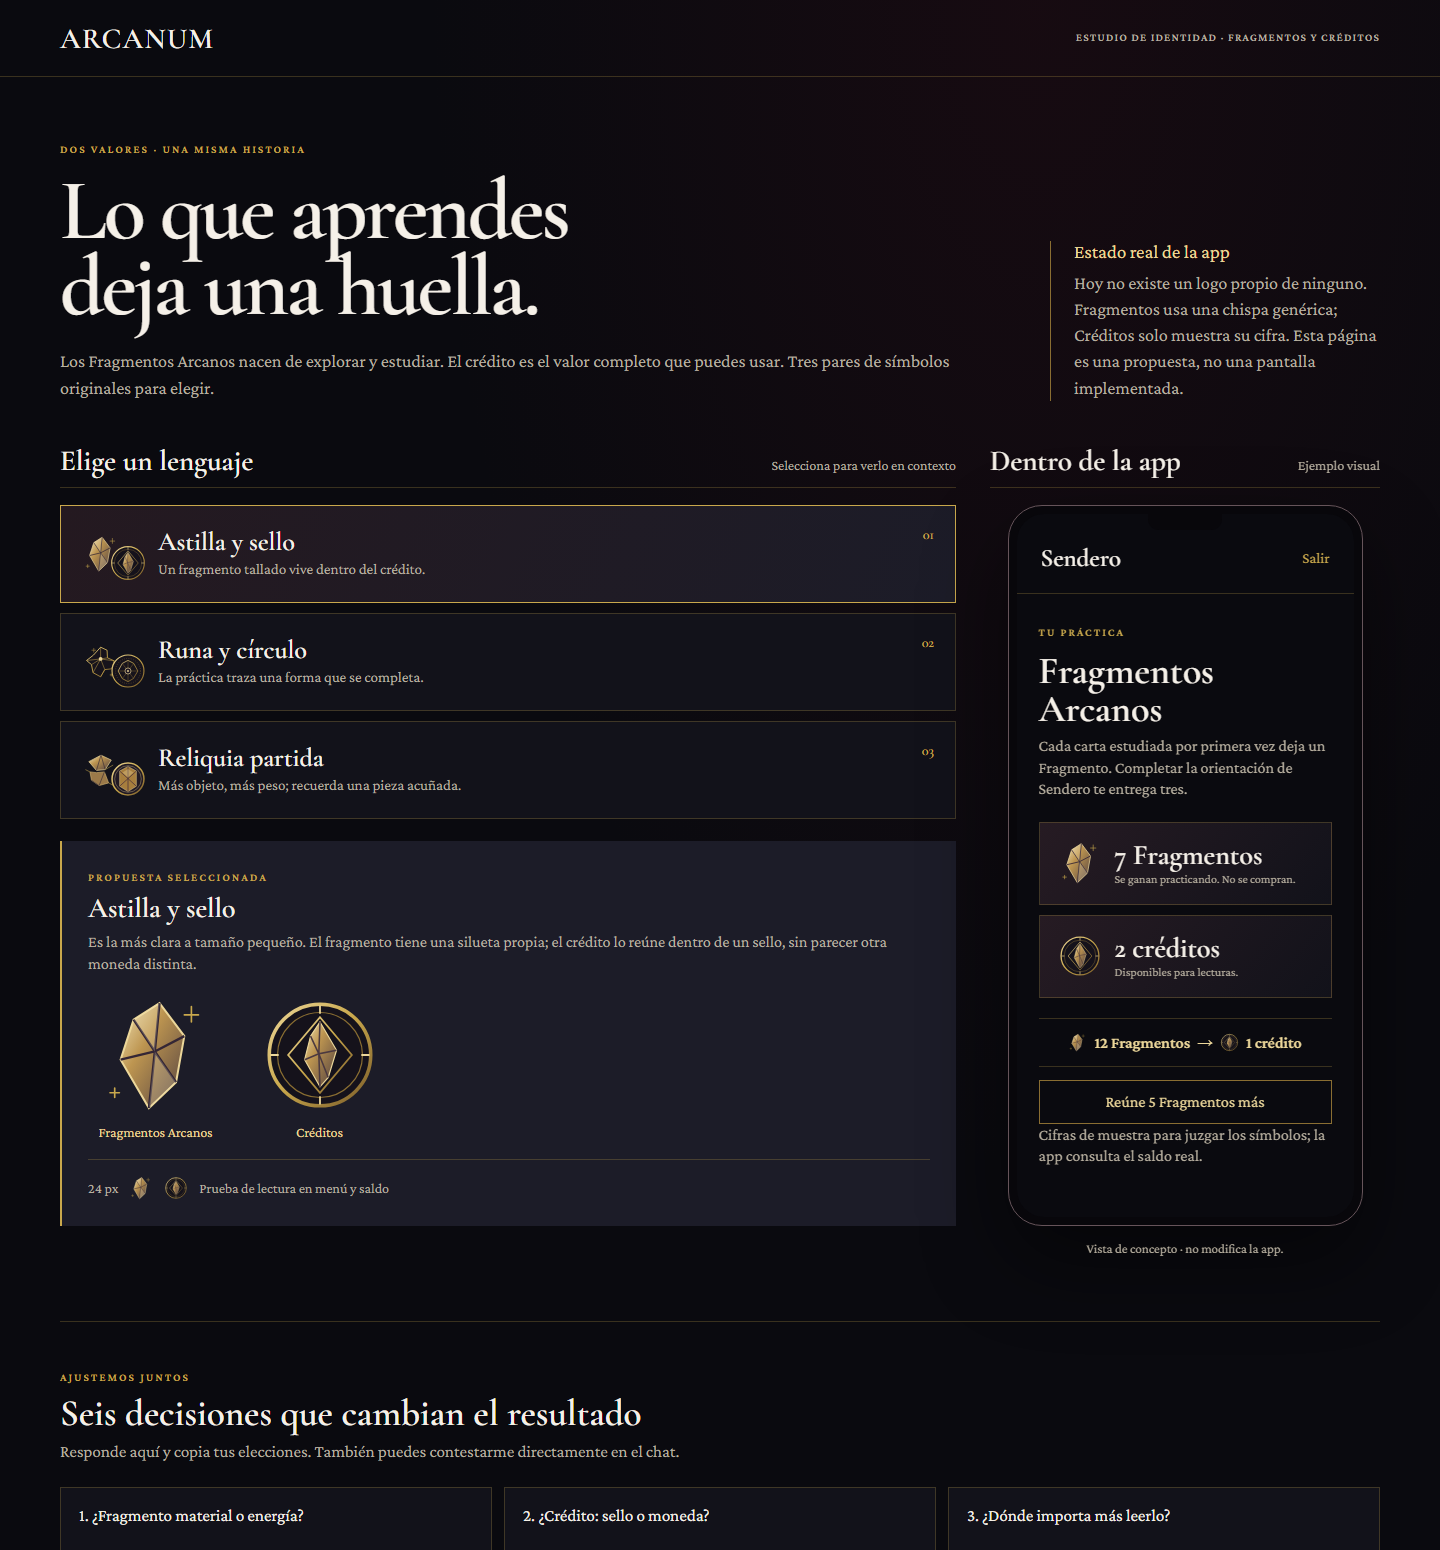
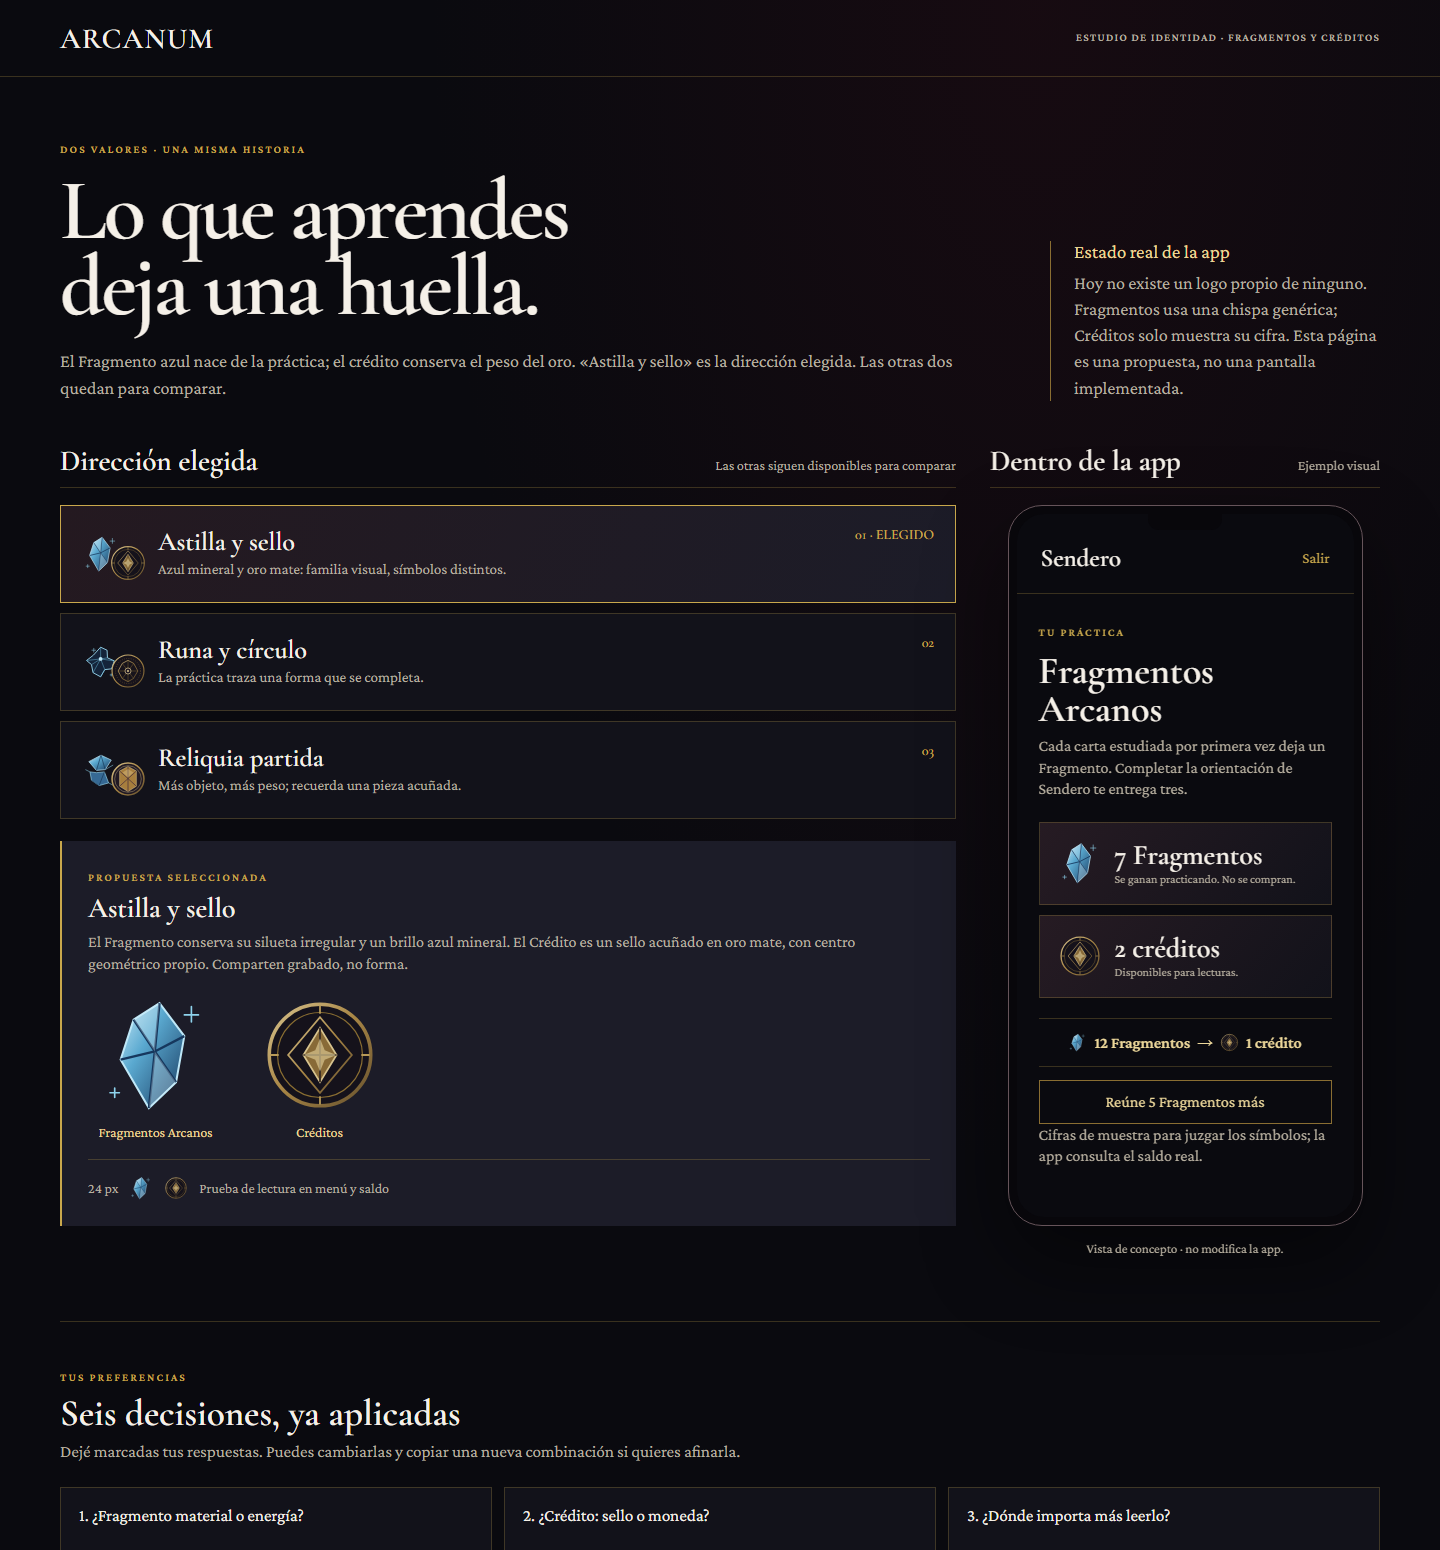
feat(diseno): distinguir fragmentos azules y creditos dorados

diff --git a/prototipos/fragmentos-creditos-identidad.html b/prototipos/fragmentos-creditos-identidad.html
@@ -15,6 +15,8 @@
       --gold: #c9a84c;
       --gold-light: #ecd79a;
       --gold-muted: #8a6e32;
+      --blue: #70b9dc;
+      --blue-light: #bfe8f8;
       --ivory: #f5f0e8;
       --muted: #b8b0a0;
       --line: rgba(201,168,76,.25);
@@ -116,27 +118,28 @@
 <body>
   <svg aria-hidden="true" width="0" height="0" style="position:absolute;overflow:hidden">
     <defs>
-      <linearGradient id="metal" x1="0" y1="0" x2="1" y2="1"><stop stop-color="#ecd79a"/><stop offset=".47" stop-color="#c9a84c"/><stop offset="1" stop-color="#795b29"/></linearGradient>
-      <linearGradient id="shard" x1="0" y1="0" x2="1" y2="1"><stop stop-color="#f1e3b7"/><stop offset=".38" stop-color="#bd9550"/><stop offset="1" stop-color="#503f40"/></linearGradient>
+      <linearGradient id="metal" x1="0" y1="0" x2="1" y2="1"><stop stop-color="#d7c38e"/><stop offset=".47" stop-color="#a98746"/><stop offset="1" stop-color="#65502d"/></linearGradient>
+      <linearGradient id="shard" x1="0" y1="0" x2="1" y2="1"><stop stop-color="#c7e9f7"/><stop offset=".38" stop-color="#5aa9d0"/><stop offset="1" stop-color="#16375d"/></linearGradient>
       <symbol id="fragment-a" viewBox="0 0 100 100">
-        <path d="M53 6 74 34 67 73 44 95 20 54 31 20Z" fill="url(#shard)" stroke="#ecd79a" stroke-width="1.7"/>
-        <path d="M53 6 49 47 44 95M31 20 49 47 74 34M49 47 67 73M20 54 49 47" fill="none" stroke="#342635" stroke-width="2"/>
-        <path d="M53 6 49 47 31 20M49 47 67 73 44 95" fill="#fff4d2" opacity=".22"/>
-        <path d="M80 9v13m-6-6h12M15 78v8m-4-4h8" stroke="#c9a84c" stroke-width="1.4" stroke-linecap="round"/>
+        <path d="M53 6 74 34 67 73 44 95 20 54 31 20Z" fill="url(#shard)" stroke="#bfe8f8" stroke-width="1.7"/>
+        <path d="M53 6 49 47 44 95M31 20 49 47 74 34M49 47 67 73M20 54 49 47" fill="none" stroke="#16375d" stroke-width="2"/>
+        <path d="M53 6 49 47 31 20M49 47 67 73 44 95" fill="#e2f6fd" opacity=".3"/>
+        <path d="M80 9v13m-6-6h12M15 78v8m-4-4h8" stroke="#8ed3ed" stroke-width="1.4" stroke-linecap="round"/>
       </symbol>
       <symbol id="credit-a" viewBox="0 0 100 100">
         <circle cx="50" cy="50" r="43" fill="#15121b" stroke="url(#metal)" stroke-width="3"/>
         <circle cx="50" cy="50" r="36" fill="none" stroke="#8a6e32" stroke-width="1"/>
         <path d="M50 18 77 50 50 82 23 50Z" fill="none" stroke="url(#metal)" stroke-width="1.5"/>
-        <path d="M50 22 64 46 57 69 50 77 37 54 42 34Z" fill="url(#shard)" stroke="#ecd79a" stroke-width="1"/>
-        <path d="M50 22 49 49 50 77M42 34 49 49 64 46M49 49 57 69M37 54 49 49" fill="none" stroke="#4b3940" stroke-width="1.3"/>
-        <path d="M50 8v7m0 70v7M8 50h7m70 0h7" stroke="#ecd79a" stroke-width="1.5"/>
+        <path d="M50 27 64 50 50 73 36 50Z" fill="#886a37" stroke="#d7c38e" stroke-width="1.5"/>
+        <path d="M50 27v46M36 50h28" fill="none" stroke="#352922" stroke-width="1.5"/>
+        <path d="M50 36 54 46 64 50 54 54 50 64 46 54 36 50 46 46Z" fill="#d7c38e" opacity=".72"/>
+        <path d="M50 8v7m0 70v7M8 50h7m70 0h7" stroke="#b89a58" stroke-width="1.5"/>
       </symbol>
       <symbol id="fragment-b" viewBox="0 0 100 100">
-        <path d="M49 11 66 19 67 39 85 47 78 68 60 70 49 89 29 78 25 57 12 46 30 32Z" fill="#17131b" stroke="url(#metal)" stroke-width="2.4"/>
-        <path d="M49 11 49 42 67 39M12 46 49 42 25 57M49 42 60 70 49 89M49 42 85 47M49 42 29 78" fill="none" stroke="#c9a84c" stroke-width="1.3"/>
-        <circle cx="49" cy="42" r="5" fill="#ecd79a"/>
-        <path d="M31 13v12m-6-6h12M77 80v8m-4-4h8" stroke="#b79845" stroke-width="1.4"/>
+        <path d="M49 11 66 19 67 39 85 47 78 68 60 70 49 89 29 78 25 57 12 46 30 32Z" fill="#14243a" stroke="#9bd9f0" stroke-width="2.4"/>
+        <path d="M49 11 49 42 67 39M12 46 49 42 25 57M49 42 60 70 49 89M49 42 85 47M49 42 29 78" fill="none" stroke="#67b5d7" stroke-width="1.3"/>
+        <circle cx="49" cy="42" r="5" fill="#bfe8f8"/>
+        <path d="M31 13v12m-6-6h12M77 80v8m-4-4h8" stroke="#8ed3ed" stroke-width="1.4"/>
       </symbol>
       <symbol id="credit-b" viewBox="0 0 100 100">
         <circle cx="50" cy="50" r="42" fill="#17131b" stroke="url(#metal)" stroke-width="3"/>
@@ -147,10 +150,10 @@
         <circle cx="50" cy="50" r="2.4" fill="#ecd79a"/>
       </symbol>
       <symbol id="fragment-c" viewBox="0 0 100 100">
-        <path d="M18 28 50 11 77 24 61 49 38 51Z" fill="url(#shard)" stroke="#ecd79a" stroke-width="1.8"/>
-        <path d="M21 55 38 57 59 55 70 84 45 91 25 77Z" fill="#9a7949" stroke="#d1b16e" stroke-width="1.7"/>
-        <path d="M38 51 50 11 61 49M25 77l20 14 14-36" fill="none" stroke="#3b2e36" stroke-width="1.8"/>
-        <path d="M61 49 82 37M21 55 9 49M70 84l14 7" fill="none" stroke="#c9a84c" stroke-width="1.4"/>
+        <path d="M18 28 50 11 77 24 61 49 38 51Z" fill="url(#shard)" stroke="#bfe8f8" stroke-width="1.8"/>
+        <path d="M21 55 38 57 59 55 70 84 45 91 25 77Z" fill="#366994" stroke="#9bd9f0" stroke-width="1.7"/>
+        <path d="M38 51 50 11 61 49M25 77l20 14 14-36" fill="none" stroke="#153657" stroke-width="1.8"/>
+        <path d="M61 49 82 37M21 55 9 49M70 84l14 7" fill="none" stroke="#8ed3ed" stroke-width="1.4"/>
       </symbol>
       <symbol id="credit-c" viewBox="0 0 100 100">
         <circle cx="50" cy="50" r="42" fill="#211923" stroke="url(#metal)" stroke-width="4"/>
@@ -164,17 +167,17 @@
   <header><div class="wrap topline"><span class="brand">ARCANUM</span><span class="topnote">Estudio de identidad · Fragmentos y créditos</span></div></header>
   <main class="wrap">
     <section class="intro">
-      <div><span class="eyebrow">Dos valores · una misma historia</span><h1>Lo que aprendes<br>deja una huella.</h1><p>Los Fragmentos Arcanos nacen de explorar y estudiar. El crédito es el valor completo que puedes usar. Tres pares de símbolos originales para elegir.</p></div>
+      <div><span class="eyebrow">Dos valores · una misma historia</span><h1>Lo que aprendes<br>deja una huella.</h1><p>El Fragmento azul nace de la práctica; el crédito conserva el peso del oro. «Astilla y sello» es la dirección elegida. Las otras dos quedan para comparar.</p></div>
       <aside><strong>Estado real de la app</strong><p>Hoy no existe un logo propio de ninguno. Fragmentos usa una chispa genérica; Créditos solo muestra su cifra. Esta página es una propuesta, no una pantalla implementada.</p></aside>
     </section>
     <section class="workspace" aria-label="Comparador de símbolos">
       <div>
-        <div class="section-head"><h2>Elige un lenguaje</h2><span>Selecciona para verlo en contexto</span></div>
-        <button type="button" class="concept" data-variant="a" aria-pressed="true"><span class="pair"><svg aria-hidden="true"><use href="#fragment-a"/></svg><svg aria-hidden="true"><use href="#credit-a"/></svg></span><span><h3>Astilla y sello</h3><p>Un fragmento tallado vive dentro del crédito.</p></span><span class="index">01</span></button>
+        <div class="section-head"><h2>Dirección elegida</h2><span>Las otras siguen disponibles para comparar</span></div>
+        <button type="button" class="concept" data-variant="a" aria-pressed="true"><span class="pair"><svg aria-hidden="true"><use href="#fragment-a"/></svg><svg aria-hidden="true"><use href="#credit-a"/></svg></span><span><h3>Astilla y sello</h3><p>Azul mineral y oro mate: familia visual, símbolos distintos.</p></span><span class="index">01 · ELEGIDO</span></button>
         <button type="button" class="concept" data-variant="b" aria-pressed="false"><span class="pair"><svg aria-hidden="true"><use href="#fragment-b"/></svg><svg aria-hidden="true"><use href="#credit-b"/></svg></span><span><h3>Runa y círculo</h3><p>La práctica traza una forma que se completa.</p></span><span class="index">02</span></button>
         <button type="button" class="concept" data-variant="c" aria-pressed="false"><span class="pair"><svg aria-hidden="true"><use href="#fragment-c"/></svg><svg aria-hidden="true"><use href="#credit-c"/></svg></span><span><h3>Reliquia partida</h3><p>Más objeto, más peso; recuerda una pieza acuñada.</p></span><span class="index">03</span></button>
         <article class="detail" aria-live="polite">
-          <span class="eyebrow">Propuesta seleccionada</span><h3 id="detail-title">Astilla y sello</h3><p id="detail-description">Es la más clara a tamaño pequeño. El fragmento tiene una silueta propia; el crédito lo reúne dentro de un sello, sin parecer otra moneda distinta.</p>
+          <span class="eyebrow">Propuesta seleccionada</span><h3 id="detail-title">Astilla y sello</h3><p id="detail-description">El Fragmento conserva su silueta irregular y un brillo azul mineral. El Crédito es un sello acuñado en oro mate, con centro geométrico propio. Comparten grabado, no forma.</p>
           <div class="duo"><div class="emblem"><svg role="img" aria-label="Símbolo de Fragmentos Arcanos" id="large-fragment"><use href="#fragment-a"/></svg><span>Fragmentos Arcanos</span></div><div class="emblem"><svg role="img" aria-label="Símbolo de Créditos" id="large-credit"><use href="#credit-a"/></svg><span>Créditos</span></div></div>
           <div class="tiny"><span>24 px</span><svg aria-hidden="true" id="tiny-fragment"><use href="#fragment-a"/></svg><svg aria-hidden="true" id="tiny-credit"><use href="#credit-a"/></svg><span>Prueba de lectura en menú y saldo</span></div>
         </article>
@@ -182,22 +185,22 @@
       <aside class="preview-wrap" aria-label="Vista previa en la app"><div class="section-head"><h2>Dentro de la app</h2><span>Ejemplo visual</span></div><div class="phone"><div class="screen"><div class="mobile-top"><span>Sendero</span><span>Salir</span></div><div class="mobile-content"><span class="eyebrow">Tu práctica</span><h2>Fragmentos Arcanos</h2><p>Cada carta estudiada por primera vez deja un Fragmento. Completar la orientación de Sendero te entrega tres.</p><div class="balance"><div class="balance-head"><svg aria-hidden="true" id="phone-fragment"><use href="#fragment-a"/></svg><div><strong>7 Fragmentos</strong><small>Se ganan practicando. No se compran.</small></div></div></div><div class="balance"><div class="balance-head"><svg aria-hidden="true" id="phone-credit"><use href="#credit-a"/></svg><div><strong>2 créditos</strong><small>Disponibles para lecturas.</small></div></div></div><div class="exchange"><svg aria-hidden="true" id="exchange-fragment"><use href="#fragment-a"/></svg><span>12 Fragmentos</span><span aria-hidden="true">→</span><svg aria-hidden="true" id="exchange-credit"><use href="#credit-a"/></svg><span>1 crédito</span></div><button type="button" class="mobile-button" disabled>Reúne 5 Fragmentos más</button><p class="balance-caption">Cifras de muestra para juzgar los símbolos; la app consulta el saldo real.</p></div></div></div><p class="preview-note">Vista de concepto · no modifica la app.</p></aside>
     </section>
     <section class="questions" aria-label="Preguntas de diseño">
-      <span class="eyebrow">Ajustemos juntos</span><h2>Seis decisiones que cambian el resultado</h2><p>Responde aquí y copia tus elecciones. También puedes contestarme directamente en el chat.</p>
+      <span class="eyebrow">Tus preferencias</span><h2>Seis decisiones, ya aplicadas</h2><p>Dejé marcadas tus respuestas. Puedes cambiarlas y copiar una nueva combinación si quieres afinarla.</p>
       <div class="question-grid">
-        <div class="question"><label for="q1">1. ¿Fragmento material o energía?</label><select id="q1"><option>Pieza material</option><option>Luz / energía</option><option>Ambos</option></select></div>
-        <div class="question"><label for="q2">2. ¿Crédito: sello o moneda?</label><select id="q2"><option>Sello ritual</option><option>Moneda reconocible</option><option>Mitad y mitad</option></select></div>
+        <div class="question"><label for="q1">1. ¿Fragmento material o energía?</label><select id="q1"><option>Pieza material</option><option>Luz / energía</option><option selected>Ambos</option></select></div>
+        <div class="question"><label for="q2">2. ¿Crédito: sello o moneda?</label><select id="q2"><option>Sello ritual</option><option>Moneda reconocible</option><option selected>Mitad y mitad</option></select></div>
         <div class="question"><label for="q3">3. ¿Dónde importa más leerlo?</label><select id="q3"><option>Icono pequeño del menú</option><option>Revelación grande en Sendero</option><option>Los dos igual</option></select></div>
-        <div class="question"><label for="q4">4. ¿Cuánta relación entre ambos?</label><select id="q4"><option>El crédito contiene el fragmento</option><option>Familia visual, símbolos distintos</option><option>Completamente distintos</option></select></div>
+        <div class="question"><label for="q4">4. ¿Cuánta relación entre ambos?</label><select id="q4"><option>El crédito contiene el fragmento</option><option selected>Familia visual, símbolos distintos</option><option>Completamente distintos</option></select></div>
         <div class="question"><label for="q5">5. ¿Acabado del oro?</label><select id="q5"><option>Oro mate envejecido</option><option>Oro luminoso</option><option>Bronce oscuro</option></select></div>
-        <div class="question"><label for="q6">6. ¿Símbolo con imperfección?</label><select id="q6"><option>Sí, tallado a mano</option><option>No, geometría exacta</option><option>Un poco de ambos</option></select></div>
+        <div class="question"><label for="q6">6. ¿Símbolo con imperfección?</label><select id="q6"><option>Sí, tallado a mano</option><option>No, geometría exacta</option><option selected>Un poco de ambos</option></select></div>
       </div>
       <div class="decision"><button type="button" class="copy" id="copy-answers">Copiar mis respuestas</button><span class="copy-state" id="copy-state" aria-live="polite">Nada se envía fuera de tu navegador.</span></div>
     </section>
   </main>
-  <footer><div class="wrap">ARCANUM · Propuesta de identidad, pendiente de elección. Fragmentos ≠ créditos: se ganan y se usan de manera distinta.</div></footer>
+  <footer><div class="wrap">ARCANUM · Dirección elegida para el prototipo. Integración en Flutter pendiente. Fragmentos ≠ créditos: se ganan y se usan de manera distinta.</div></footer>
   <script>
     const variants = {
-      a: { title: 'Astilla y sello', description: 'Es la más clara a tamaño pequeño. El fragmento tiene una silueta propia; el crédito lo reúne dentro de un sello, sin parecer otra moneda distinta.' },
+      a: { title: 'Astilla y sello', description: 'El Fragmento conserva su silueta irregular y un brillo azul mineral. El Crédito es un sello acuñado en oro mate, con centro geométrico propio. Comparten grabado, no forma.' },
       b: { title: 'Runa y círculo', description: 'La alternativa más ritual y geométrica. El fragmento es una runa incompleta; el crédito cierra la figura. Menos objeto, más símbolo.' },
       c: { title: 'Reliquia partida', description: 'La alternativa más tangible. El fragmento parece una pieza desprendida y el crédito, una reliquia acuñada. Más peso material, menos delicadeza.' }
     };
